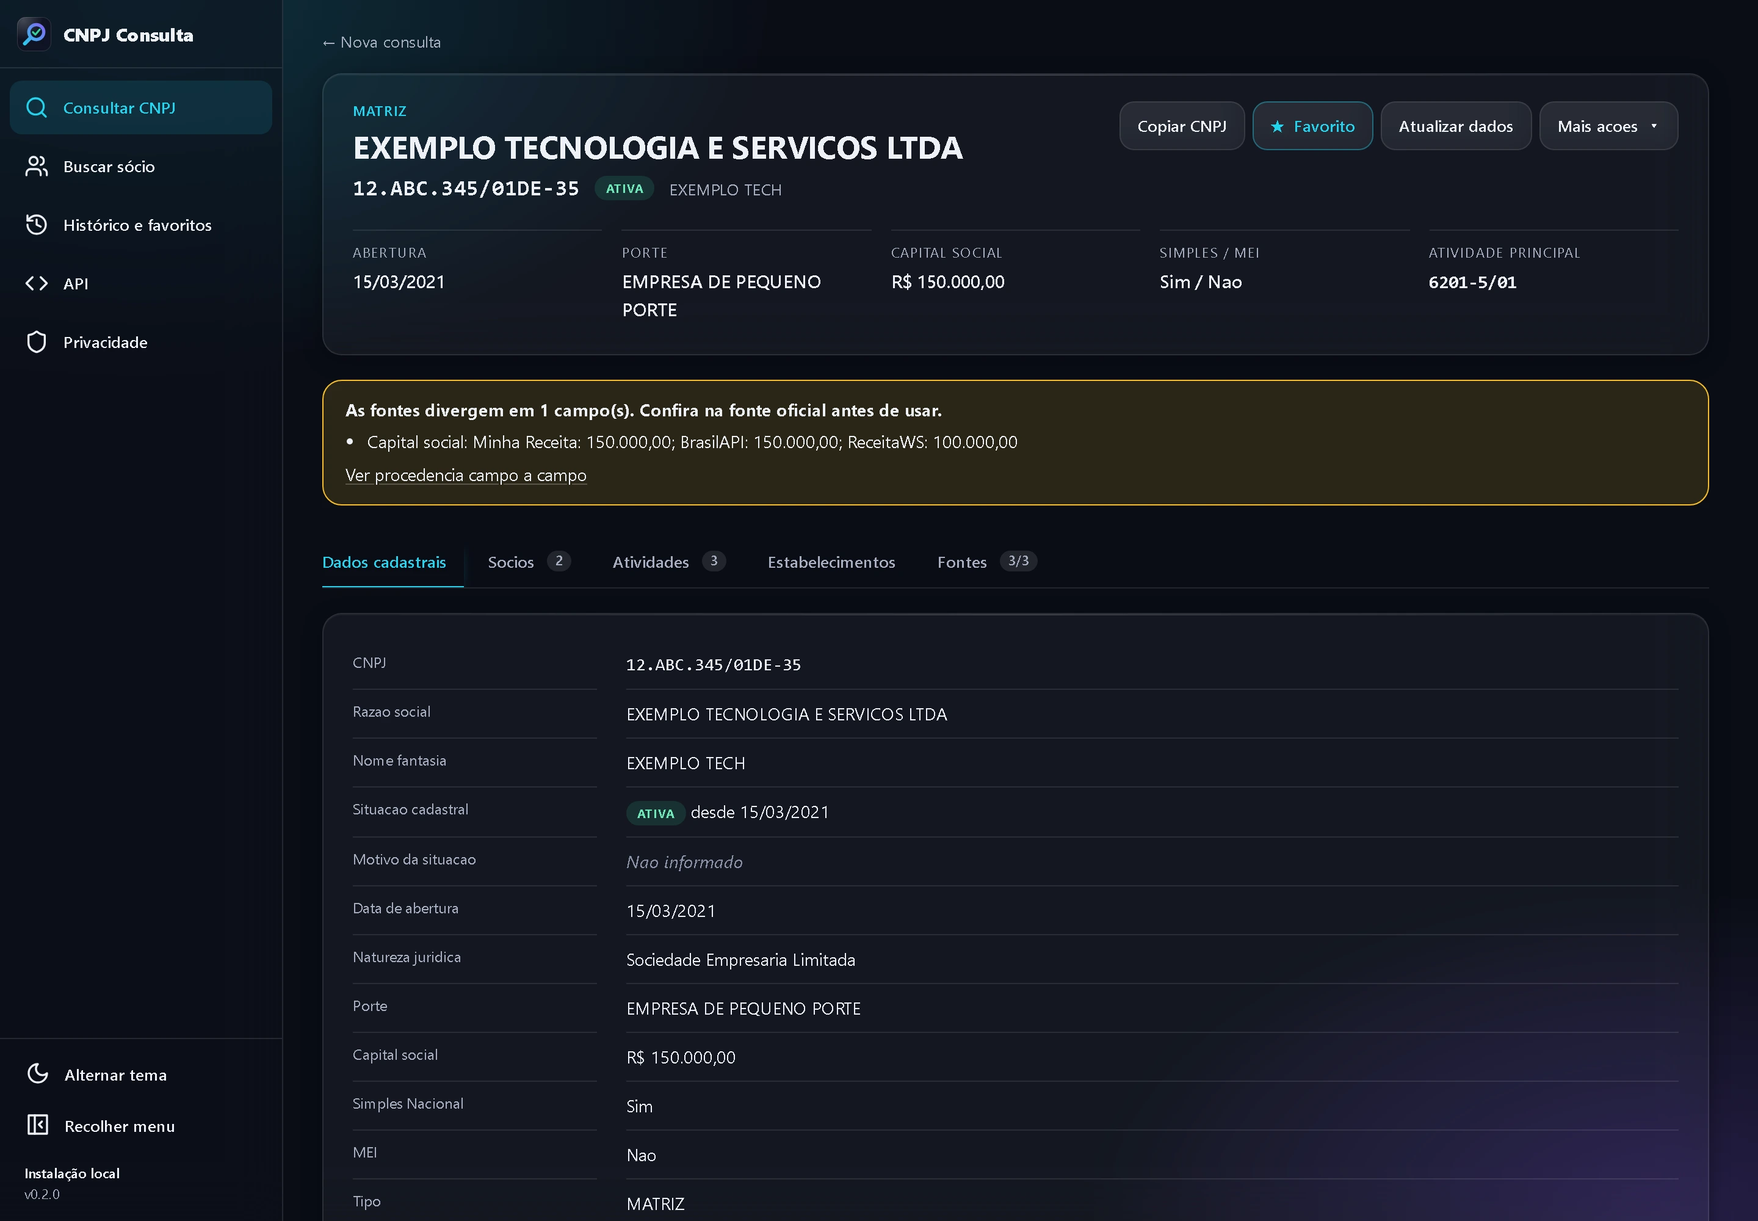
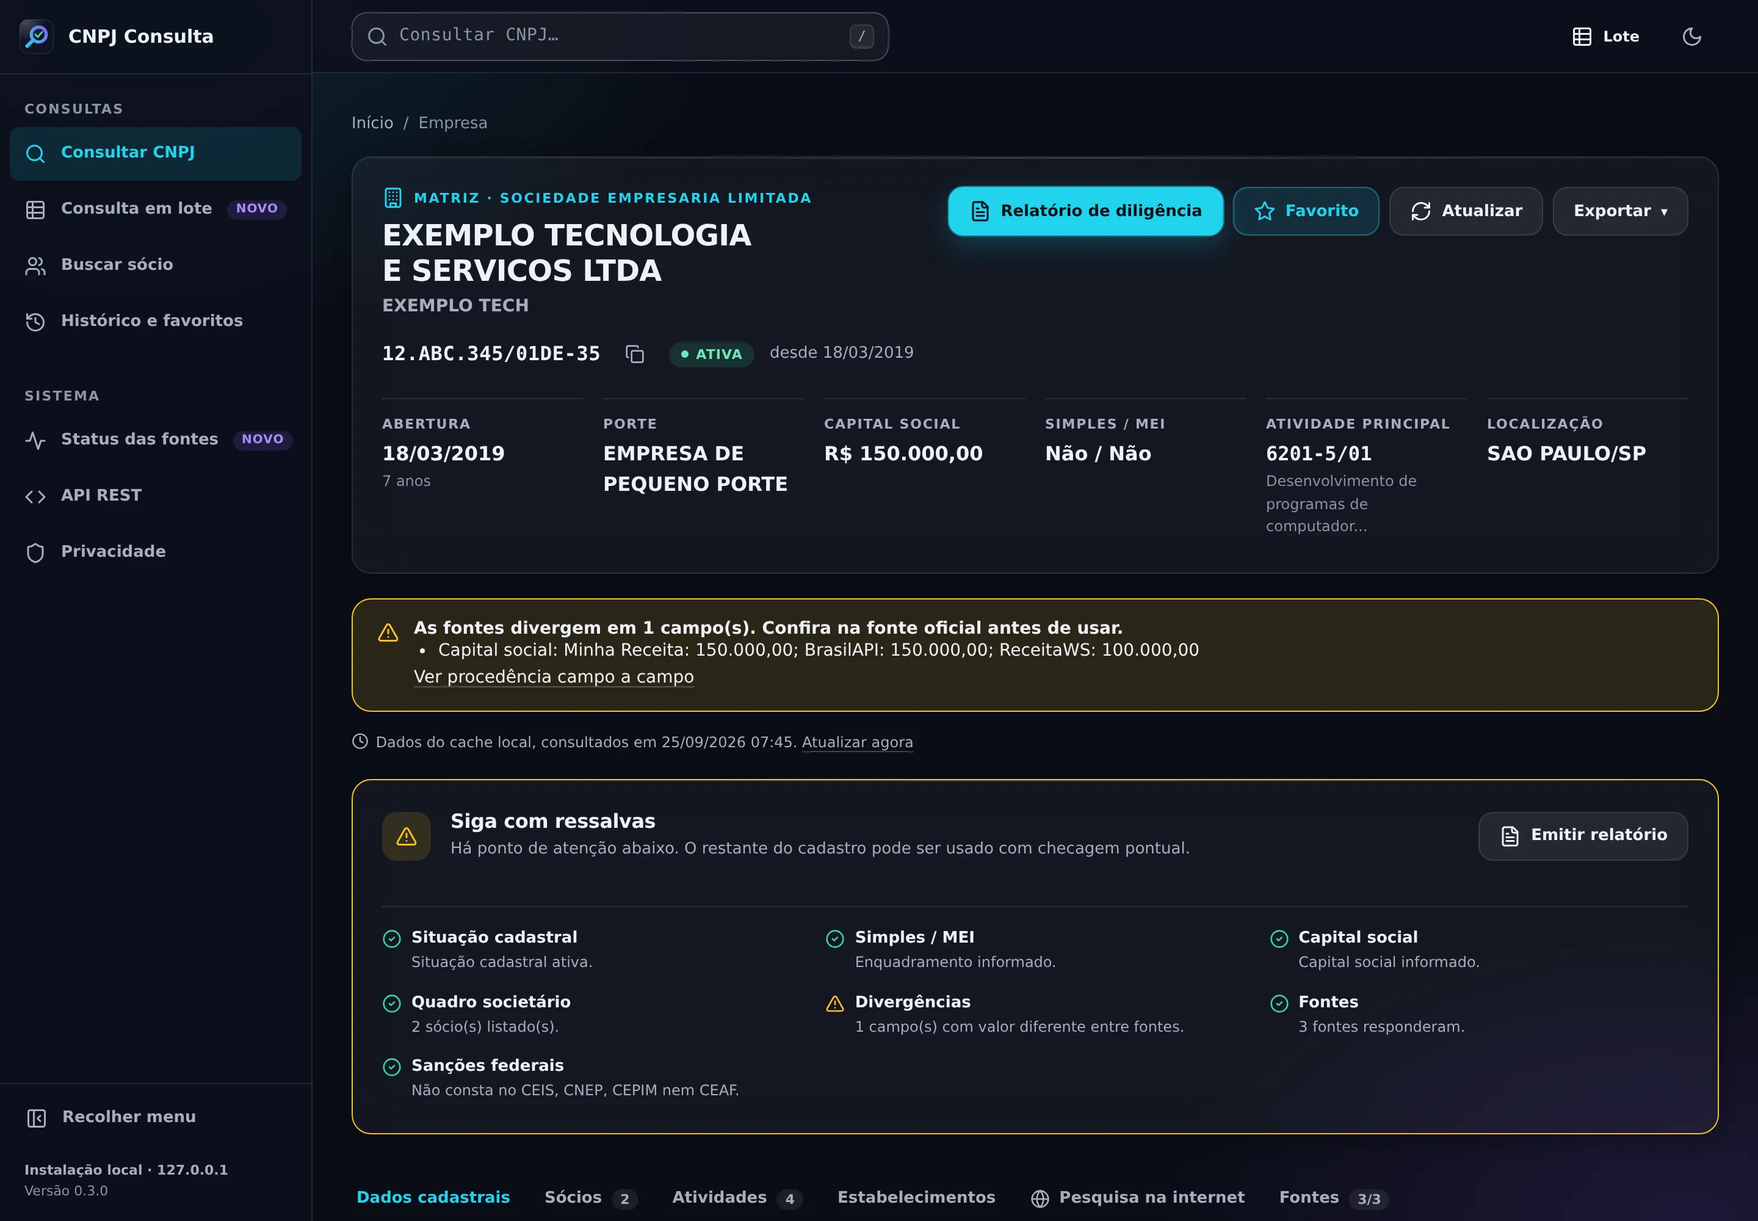
docs: landing SaaS final, capturas do novo layout e README corrigido
- Landing: vitrine com abas novas (Pesquisa na internet e Lote), textos
  com Tavily e checagem opcional de sanções, contagem de testes 200+.
- Capturas tour-*.webp refeitas com o layout 0.3 e dados fictícios;
  novas: tour-internet, tour-lote e tour-relatorio.
- README: RECEITAWS_ENABLED vem false por padrão (estava como true) e
  galeria com pesquisa na internet, lote e relatório A4.

Claude-Session: https://claude.ai/code/session_01Y2UJxZAoPVEu7FUqSM2SYX

diff --git a/docs/index.html b/docs/index.html
@@ -163,7 +163,7 @@
       <a class="btn btn-primary btn-lg" href="#instalacao">Instalar grátis<svg class="i" aria-hidden="true"><use href="#i-arrow"/></svg></a>
       <a class="btn btn-lg" href="https://github.com/fredabsd-svg/cnpj-consulta"><svg class="i i-fill" aria-hidden="true"><use href="#i-github"/></svg>Ver no GitHub</a>
     </div>
-    <ul class="trust" aria-label="Garantias">
+    <ul class="trust">
       <li><svg class="i" aria-hidden="true"><use href="#i-check"/></svg>Open source (MIT)</li>
       <li><svg class="i" aria-hidden="true"><use href="#i-check"/></svg>Sem chave de API</li>
       <li><svg class="i" aria-hidden="true"><use href="#i-check"/></svg>100% local</li>
@@ -175,7 +175,9 @@
         <div class="seg" role="tablist" aria-label="Telas do aplicativo">
           <button type="button" role="tab" id="tab-empresa" aria-controls="painel-empresa" aria-selected="true">Empresa</button>
           <button type="button" role="tab" id="tab-fontes" aria-controls="painel-fontes" aria-selected="false">Fontes e procedência</button>
-          <button type="button" role="tab" id="tab-consulta" aria-controls="painel-consulta" aria-selected="false">Consulta</button>
+          <button type="button" role="tab" id="tab-internet" aria-controls="painel-internet" aria-selected="false">Pesquisa na internet</button>
+          <button type="button" role="tab" id="tab-lote" aria-controls="painel-lote" aria-selected="false">Lote</button>
+          <button type="button" role="tab" id="tab-consulta" aria-controls="painel-consulta" aria-selected="false">Início</button>
           <button type="button" role="tab" id="tab-claro" aria-controls="painel-claro" aria-selected="false">Tema claro</button>
           <button type="button" role="tab" id="tab-celular" aria-controls="painel-celular" aria-selected="false">Celular</button>
         </div>
@@ -190,17 +192,27 @@
           <div class="tabpanel" role="tabpanel" id="painel-empresa" aria-labelledby="tab-empresa">
             <p class="panel-title">Empresa</p>
             <img src="assets/screenshots/tour-empresa.webp" width="2880" height="2000" fetchpriority="high" decoding="async"
-                 alt="Página de uma empresa no app: razão social, CNPJ alfanumérico, situação ATIVA, resumo cadastral e um alerta amarelo informando que as fontes divergem no capital social.">
+                 alt="Página de uma empresa no app: razão social, CNPJ alfanumérico, situação ATIVA, resumo com abertura e idade da empresa, alerta de divergência no capital social e o veredicto Siga com ressalvas com o checklist de diligência.">
           </div>
           <div class="tabpanel" role="tabpanel" id="painel-fontes" aria-labelledby="tab-fontes">
             <p class="panel-title">Fontes e procedência</p>
             <img src="assets/screenshots/tour-fontes.webp" width="2880" height="2000" loading="lazy" decoding="async"
                  alt="Aba Fontes: tabela das fontes consultadas (Minha Receita como primária, BrasilAPI e ReceitaWS como espelho) e a procedência campo a campo, com selos de confiança.">
           </div>
+          <div class="tabpanel" role="tabpanel" id="painel-internet" aria-labelledby="tab-internet">
+            <p class="panel-title">Pesquisa na internet</p>
+            <img src="assets/screenshots/tour-internet.webp" width="2880" height="2000" loading="lazy" decoding="async"
+                 alt="Aba Pesquisa na internet: campo de busca com a razão social entre aspas, quatro resultados da web dentro do app e, abaixo, os grupos de atalhos Buscadores e Reputação e processos.">
+          </div>
+          <div class="tabpanel" role="tabpanel" id="painel-lote" aria-labelledby="tab-lote">
+            <p class="panel-title">Consulta em lote</p>
+            <img src="assets/screenshots/tour-lote.webp" width="2880" height="2000" loading="lazy" decoding="async"
+                 alt="Consulta em lote: cartões com 5 empresas consultadas, 3 ativas, 2 em situação irregular e 1 com divergência, e a tabela com situação, município, porte, Simples/MEI e veredicto de cada empresa, com botão para exportar CSV.">
+          </div>
           <div class="tabpanel" role="tabpanel" id="painel-consulta" aria-labelledby="tab-consulta">
             <p class="panel-title">Consulta</p>
             <img src="assets/screenshots/tour-home.webp" width="2880" height="2000" loading="lazy" decoding="async"
-                 alt="Tela inicial: campo de CNPJ com máscara, consultas recentes, favoritos e o cartão CNPJ em 3D.">
+                 alt="Tela inicial: campo de CNPJ com máscara, métricas de uso (consultas hoje, empresas, favoritos, fontes ativas), atalhos para lote, sócio e API, consultas recentes e favoritos.">
           </div>
           <div class="tabpanel" role="tabpanel" id="painel-claro" aria-labelledby="tab-claro">
             <p class="panel-title">Tema claro</p>
@@ -210,7 +222,7 @@
           <div class="tabpanel panel-phone" role="tabpanel" id="painel-celular" aria-labelledby="tab-celular">
             <p class="panel-title">Celular</p>
             <img src="assets/screenshots/tour-mobile.webp" width="780" height="1688" loading="lazy" decoding="async"
-                 alt="Página da empresa em um celular: botões empilhados, resumo em uma coluna e o alerta de divergência.">
+                 alt="Página da empresa em um celular: botões empilhados, resumo em duas colunas e o alerta de divergência.">
           </div>
         </div>
       </div>
@@ -226,7 +238,7 @@
       <div class="metric"><dt>fontes públicas cruzadas</dt><dd>5</dd></div>
       <div class="metric"><dt>chaves de API necessárias</dt><dd>0</dd></div>
       <div class="metric"><dt>no seu computador</dt><dd>100%</dd></div>
-      <div class="metric"><dt>testes automatizados</dt><dd>160+</dd></div>
+      <div class="metric"><dt>testes automatizados</dt><dd>200+</dd></div>
     </dl>
     <div class="sources reveal">
       <span class="sources-label">Fontes gratuitas, lado a lado</span>
@@ -267,7 +279,7 @@
         <p>Diligência de fornecedores e clientes, com registro do que cada fonte informou.</p>
         <ul class="ticks">
           <li><svg class="i" aria-hidden="true"><use href="#i-check"/></svg>Checklist com veredicto por empresa</li>
-          <li><svg class="i" aria-hidden="true"><use href="#i-check"/></svg>Atalho para sanções CEIS/CNEP</li>
+          <li><svg class="i" aria-hidden="true"><use href="#i-check"/></svg>Sanções CEIS/CNEP no checklist (opcional)</li>
           <li><svg class="i" aria-hidden="true"><use href="#i-check"/></svg>Conflitos entre fontes sempre à vista</li>
         </ul>
       </article>
@@ -590,11 +602,11 @@
         </li>
         <li>
           <span class="ico ico-sm success"><svg class="i" aria-hidden="true"><use href="#i-shield-check"/></svg></span>
-          <div><h3>Só dados da empresa</h3><p>Razão social, nome fantasia, CNPJ e endereço da sede. Nomes de sócios nunca entram nas buscas (LGPD).</p></div>
+          <div><h3>Só dados da empresa</h3><p>Razão social, nome fantasia, CNPJ, endereço da sede e domínio do e-mail cadastral. Nomes de sócios nunca entram nas buscas (LGPD).</p></div>
         </li>
         <li>
           <span class="ico ico-sm violet"><svg class="i" aria-hidden="true"><use href="#i-search"/></svg></span>
-          <div><h3>Resultados no app, se você quiser</h3><p>Configure a Brave Search API com a sua própria chave, ou uma instância SearXNG sua, e veja os resultados sem sair da tela.</p></div>
+          <div><h3>Resultados no app, se você quiser</h3><p>Configure o Tavily (1.000 buscas grátis por mês), a Brave Search API ou uma instância SearXNG sua e veja os resultados sem sair da tela. Com a chave gratuita do Portal da Transparência, o checklist confere sozinho CEIS, CNEP, CEPIM e CEAF.</p></div>
         </li>
       </ul>
     </div>
@@ -611,32 +623,32 @@
           <div class="rgroups">
             <div class="rgroup">
               <p class="rg-title"><svg class="i" aria-hidden="true"><use href="#i-search"/></svg>Buscadores</p>
-              <ul class="rg-links" aria-label="Buscadores">
+              <ul class="rg-links">
                 <li>Google</li><li>Bing</li><li>DuckDuckGo</li><li>Google Notícias</li>
               </ul>
             </div>
             <div class="rgroup">
               <p class="rg-title"><svg class="i" aria-hidden="true"><use href="#i-scale"/></svg>Reputação e processos</p>
-              <ul class="rg-links" aria-label="Reputação e processos">
+              <ul class="rg-links">
                 <li>Jusbrasil</li><li>Reclame Aqui</li>
               </ul>
             </div>
             <div class="rgroup">
               <p class="rg-title"><svg class="i" aria-hidden="true"><use href="#i-clipboard-check"/></svg>Certidões e cadastros oficiais</p>
-              <ul class="rg-links" aria-label="Certidões e cadastros oficiais">
+              <ul class="rg-links">
                 <li>Comprovante de CNPJ</li><li>CND federal</li><li>CRF do FGTS</li><li>CNDT trabalhista</li><li>CEIS/CNEP</li><li>Simples Nacional</li><li>Sintegra</li>
               </ul>
               <p class="rg-note">Onde o site oficial pede captcha, um botão copia o CNPJ para você colar.</p>
             </div>
             <div class="rgroup rgroup-half">
               <p class="rg-title"><svg class="i" aria-hidden="true"><use href="#i-map-pin"/></svg>Localização</p>
-              <ul class="rg-links" aria-label="Localização">
+              <ul class="rg-links">
                 <li>Google Maps</li><li>OpenStreetMap</li>
               </ul>
             </div>
             <div class="rgroup rgroup-half">
               <p class="rg-title"><svg class="i" aria-hidden="true"><use href="#i-globe"/></svg>Presença digital</p>
-              <ul class="rg-links" aria-label="Presença digital">
+              <ul class="rg-links">
                 <li>Site pelo domínio do e-mail</li><li>LinkedIn</li>
               </ul>
             </div>
@@ -827,7 +839,7 @@
     <div class="section-head center reveal">
       <span class="eyebrow">Preço</span>
       <h2 id="t-preco">Um plano só: gratuito para sempre</h2>
-      <p class="lead">O CNPJ Consulta é open source sob a licença MIT. Não há versão paga, cadastro nem limite de uso imposto pelo app.</p>
+      <p class="lead">O CNPJ Consulta é open source sob a licença MIT. Não há versão paga, cadastro nem cota mensal: o ritmo das consultas acompanha os limites das fontes públicas.</p>
     </div>
 
     <div class="pricing">
@@ -1122,10 +1134,10 @@
       <p class="lead">Não achou a resposta? Pergunte nas <a href="https://github.com/fredabsd-svg/cnpj-consulta/issues">issues do GitHub</a>.</p>
     </div>
     <div class="faq reveal">
-      <details><summary>Preciso de chave de API?</summary><div class="answer"><p>Não. Todas as fontes de dados são gratuitas e funcionam sem chave. A única exceção é opcional: mostrar resultados de busca dentro do app pela Brave Search API exige a sua própria chave. Com uma instância SearXNG sua, não há chave.</p></div></details>
+      <details><summary>Preciso de chave de API?</summary><div class="answer"><p>Não. Todas as fontes de dados são gratuitas e funcionam sem chave. As exceções são opcionais: mostrar resultados de busca dentro do app pelo Tavily ou pela Brave Search API exige a sua própria chave (com uma instância SearXNG sua, não há chave), e a checagem automática de sanções usa a chave gratuita da API do Portal da Transparência.</p></div></details>
       <details><summary>Como gero o relatório de diligência em PDF?</summary><div class="answer"><p>Na página da empresa, abra o relatório, preencha se quiser o escritório, o responsável, o destinatário e a referência, e clique em <em>Salvar PDF</em>: o próprio navegador gera o arquivo em A4. O relatório traz o veredicto, as pendências, as divergências entre fontes, o cadastro, o quadro societário (com CPF mascarado) e as atividades.</p></div></details>
       <details><summary>O relatório substitui certidões oficiais?</summary><div class="answer"><p>Não. Ele resume o que as fontes públicas informam e deixa claro de onde veio cada dado. Para certidões (CND federal, CNDT, CRF do FGTS), use os atalhos da aba Pesquisa na internet, que levam aos sites oficiais.</p></div></details>
-      <details><summary>O que a pesquisa na internet envia, e para quem?</summary><div class="answer"><p>Nada, até você clicar. Cada atalho abre o site escolhido em uma nova aba, com a razão social, o nome fantasia, o CNPJ ou o endereço da sede na busca, nunca o nome de um sócio. Os resultados dentro do app são opcionais e usam o provedor que você configurar (Brave Search API ou SearXNG).</p></div></details>
+      <details><summary>O que a pesquisa na internet envia, e para quem?</summary><div class="answer"><p>Nada, até você clicar. Cada atalho abre o site escolhido em uma nova aba, com a razão social, o nome fantasia, o CNPJ ou o endereço da sede na busca, nunca o nome ou o documento de um sócio. Os resultados dentro do app são opcionais e usam o provedor que você configurar (Tavily, Brave Search API ou SearXNG). Se você ligar a checagem de sanções, o CNPJ (e só ele) vai à API do Portal da Transparência quando você abre a empresa.</p></div></details>
       <details><summary>Como funciona a consulta em lote?</summary><div class="answer"><p>Cole até 30 CNPJs, com ou sem pontuação, separados por linha, espaço, vírgula ou ponto e vírgula; duplicados são ignorados. O app consulta cada um respeitando os limites das fontes (o que já está no cache não gasta consulta) e monta uma tabela com situação, UF, porte, Simples/MEI e conflitos, que você exporta em CSV.</p></div></details>
       <details><summary>Funciona sem internet?</summary><div class="answer"><p>As consultas online precisam de internet. Com a base local da Receita Federal ativada (<span class="mono">RECEITA_LOCAL_ENABLED=true</span>), a consulta por CNPJ e a busca por sócio funcionam offline, inclusive com as APIs fora do ar. A importação exige cerca de 40 GB livres durante o processo.</p></div></details>
       <details><summary>Os dados são oficiais?</summary><div class="answer"><p>Vêm de fontes públicas. A base local é a da própria Receita Federal; BrasilAPI, ReceitaWS e CNPJ.ws são espelhos ou proxies. Os dados podem estar defasados (a base da Receita é mensal), por isso o app mostra a fonte e a data de cada um. Ele não substitui o comprovante oficial.</p></div></details>

diff --git a/docs/assets/site.css b/docs/assets/site.css
@@ -741,7 +741,7 @@ html:not(.js) #t-veredicto .mini-hint { display: none; }
 .paper-band { height: 6px; background: var(--paper-band); }
 .paper-inner { padding: clamp(var(--sp-5), 4vw, var(--sp-10)) clamp(var(--sp-5), 4vw, var(--sp-10)) clamp(var(--sp-4), 3vw, var(--sp-6)); }
 .p-cover { padding-bottom: var(--sp-4); margin-bottom: var(--sp-4); border-bottom: 1px solid var(--paper-line); }
-.p-brand { font: 700 var(--fs-xs)/1.3 var(--font-heading); letter-spacing: .02em; color: var(--paper-ink); }
+.p-brand { font: 700 var(--fs-xs)/1.3 var(--font-heading); letter-spacing: 0; color: var(--paper-ink); }
 .p-doctype { margin-top: var(--sp-4) !important; font-size: var(--fs-2xs); font-weight: 700; letter-spacing: .12em; text-transform: uppercase; color: var(--paper-ink-2); }
 .p-title { margin-top: var(--sp-1) !important; font: 700 clamp(var(--fs-base), 1.2rem + .5vw, var(--fs-xl))/1.2 var(--font-heading); letter-spacing: -.01em; color: var(--paper-ink); text-wrap: balance; }
 .p-fantasia { font-size: var(--fs-xs); color: var(--paper-ink-2); }
@@ -813,7 +813,7 @@ html:not(.js) .verdict-panels > .tabpanel + .tabpanel { margin-top: var(--sp-4);
 .rg-links li::after { content: "↗"; font-size: var(--fs-xs); line-height: 1; color: var(--text-3); }
 .rg-note { margin: var(--sp-3) 0 0; font-size: var(--fs-xs); color: var(--text-3); }
 .rg-provider { display: flex; gap: var(--sp-2); margin-top: var(--sp-5); }
-.rg-input { flex: 1; min-width: 0; display: block; line-height: 34px; min-height: 36px; padding: 0 var(--sp-3); border-radius: var(--r-sm); border: 1px solid var(--border-strong); background: var(--surface); font: 500 var(--fs-2xs)/1 var(--font-mono); color: var(--text-2); overflow: hidden; white-space: nowrap; text-overflow: ellipsis; }
+.rg-input { flex: 1; min-width: 0; display: block; min-height: 36px; padding: 0 var(--sp-3); border-radius: var(--r-sm); border: 1px solid var(--border-strong); background: var(--surface); font: 500 var(--fs-2xs)/34px var(--font-mono); color: var(--text-2); overflow: hidden; white-space: nowrap; text-overflow: ellipsis; }
 .rg-btn { display: inline-flex; align-items: center; min-height: 36px; padding: 0 var(--sp-3); border-radius: var(--r-sm); background: var(--btn-bg); color: var(--btn-text); font-size: var(--fs-xs); font-weight: 700; }
 
 /* =============================================================================

diff --git a/README.md b/README.md
@@ -32,7 +32,7 @@
 
 <p align="center">
   <img src="docs/assets/screenshots/tour-empresa.webp" width="920"
-       alt="Página de uma empresa no CNPJ Consulta: resumo cadastral, CNPJ alfanumérico e um alerta informando que as fontes divergem no capital social">
+       alt="Página de uma empresa no CNPJ Consulta: resumo cadastral, CNPJ alfanumérico, alerta de divergência no capital social e veredicto de diligência com checklist">
 </p>
 <p align="center"><sub>Capturas reais do app rodando localmente, com dados fictícios.</sub></p>
 
@@ -94,11 +94,19 @@ flowchart LR
 <table>
   <tr>
     <td width="50%"><img src="docs/assets/screenshots/tour-fontes.webp" alt="Aba Fontes: fontes consultadas e procedência campo a campo com selos de confiança"></td>
-    <td width="50%"><img src="docs/assets/screenshots/tour-claro.webp" alt="Página da empresa no tema claro"></td>
+    <td width="50%"><img src="docs/assets/screenshots/tour-internet.webp" alt="Aba Pesquisa na internet com resultados da web e atalhos para buscadores, processos e certidões"></td>
   </tr>
   <tr>
     <td align="center"><sub>Procedência campo a campo</sub></td>
-    <td align="center"><sub>Tema claro</sub></td>
+    <td align="center"><sub>Pesquisa na internet</sub></td>
+  </tr>
+  <tr>
+    <td width="50%"><img src="docs/assets/screenshots/tour-lote.webp" alt="Consulta em lote com resumo e veredicto de cada empresa"></td>
+    <td width="50%"><img src="docs/assets/screenshots/tour-relatorio.webp" alt="Relatório de diligência cadastral em A4 com o nome do escritório"></td>
+  </tr>
+  <tr>
+    <td align="center"><sub>Consulta em lote</sub></td>
+    <td align="center"><sub>Relatório de diligência (A4/PDF)</sub></td>
   </tr>
 </table>
 
@@ -225,7 +233,7 @@ Requisições POST e DELETE vindas de outra origem (outro site aberto no navegad
 |---|---|---|---|---|
 | Minha Receita | Sim | Não | Primária | Fonte principal das consultas online (30 consultas/min) |
 | BrasilAPI | Sim | Não | Espelho | Proxy da Minha Receita: confirma o formato, mas conta como a mesma base (60/min) |
-| ReceitaWS | Plano free | Não | Espelho | Segunda opinião; o plano gratuito limita a 3 consultas/min |
+| ReceitaWS | Plano free | Não | Espelho | Segunda opinião, desligada por padrão (termos restritivos); o plano gratuito limita a 3 consultas/min |
 | CNPJ.ws | Plano free | Não | Espelho | Opcional, desligada por padrão (3/min) |
 | Receita Federal (base local) | Sim | Não | Primária | Busca por sócio, filiais e modo offline |
 
@@ -241,7 +249,8 @@ Tudo é configurado por variáveis de ambiente (ou pelo arquivo `.env`; veja o `
 
 | Variável | Padrão | Para quê |
 |---|---|---|
-| `BRASILAPI_ENABLED`, `MINHA_RECEITA_ENABLED`, `RECEITAWS_ENABLED` | `true` | Liga/desliga cada fonte |
+| `BRASILAPI_ENABLED`, `MINHA_RECEITA_ENABLED` | `true` | Liga/desliga cada fonte |
+| `RECEITAWS_ENABLED` | `false` | ReceitaWS (opcional: os termos proíbem republicar os dados; use só localmente) |
 | `CNPJWS_ENABLED` | `false` | CNPJ.ws (opcional) |
 | `RECEITA_LOCAL_ENABLED` | `false` | Usa a base local da Receita Federal |
 | `RATE_LIMIT_<FONTE>` | 60 / 30 / 3 / 3 | Consultas por minuto de cada fonte |
